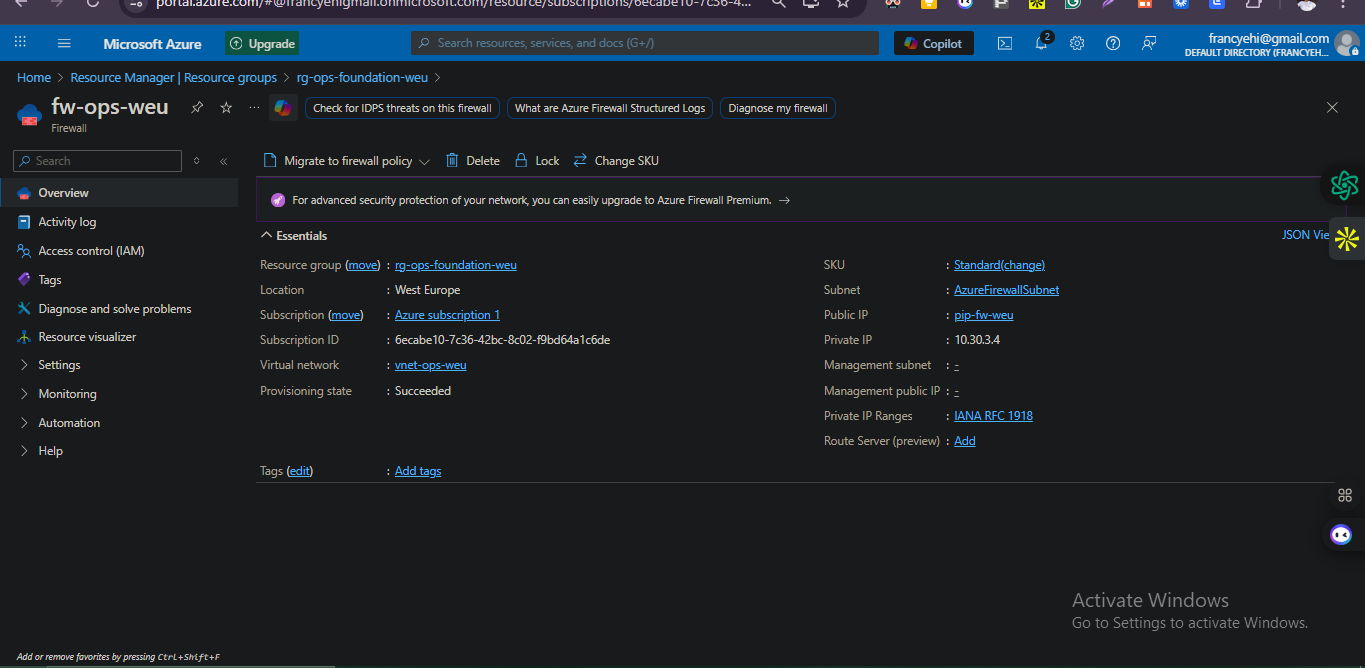
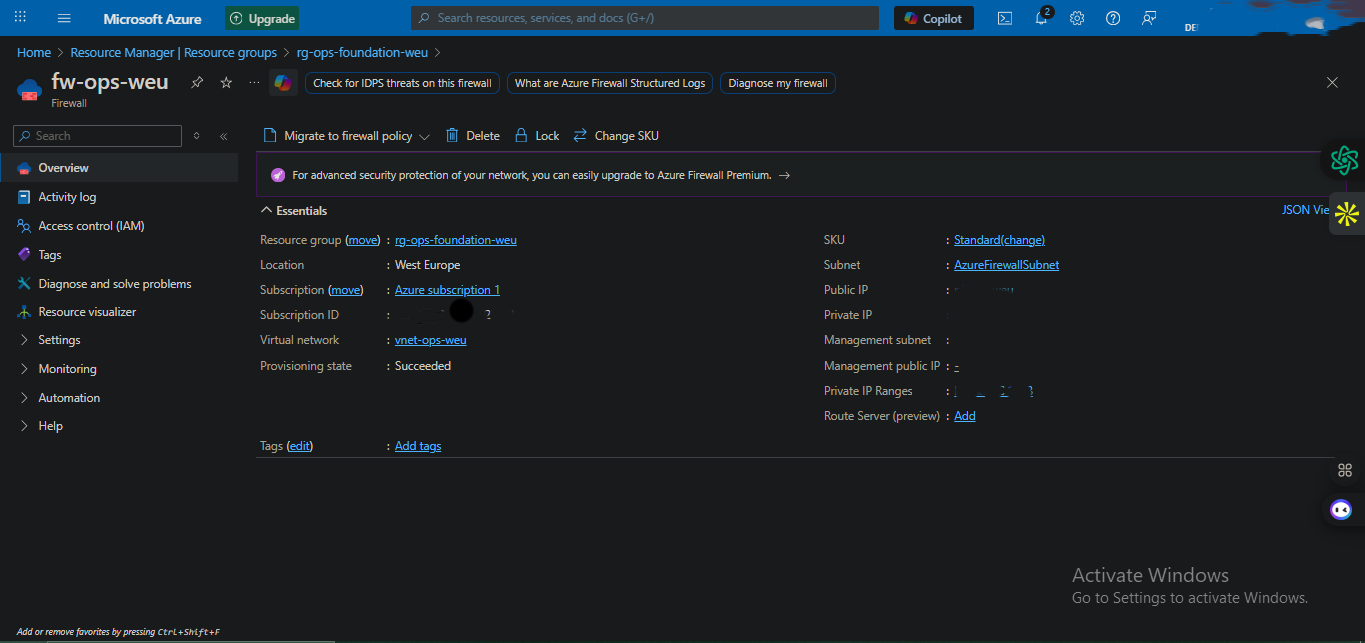
Complete Project 7 CI workflow, add Project 8 IAM comparison, and update documentation screenshots

diff --git a/README.md b/README.md
@@ -4,7 +4,7 @@ This repository contains a series of foundational Cloud and DevOps projects desi
 
 Each project is documented with clear explanations, scripts and diagrams to demonstrate learning progression and real world readiness.
 
----
+
 ## Projects
 
 ### Project 1: Cloud Foundations
@@ -16,7 +16,7 @@ Each project is documented with clear explanations, scripts and diagrams to demo
 
 📁 Folder: `project-1-cloud-foundations/`
 
----
+
 
 ### Project 2: Resource Group and Deployment Simulations
 **Focus:**
@@ -27,7 +27,7 @@ Each project is documented with clear explanations, scripts and diagrams to demo
 
 📁 Folder: `project-2-resource-group-deployment/`
 
----
+
 
 ### Project 3: Azure Networking & Storage
 **Focus:**
@@ -39,7 +39,6 @@ Each project is documented with clear explanations, scripts and diagrams to demo
 
 📁 Folder: `project-3-azure-networking-storage/`
 
----
 
 ### Project 4: Cloud Security & GitHub Basics
 **Focus:**
@@ -50,6 +49,51 @@ Each project is documented with clear explanations, scripts and diagrams to demo
 - GitHub documentation and version control practices
 
 📁 Folder: `project-4-cloud-security-github/`
+
+
+
+### Project 5: Linux & Git Fundamentals
+**Focus:**
+- Linux file system navigation
+- Permissions and ownership
+- Basic shell commands
+- Git fundamentals (init, add, commit, branch)
+
+📁 Folder: `project-5-linux-git-fundamentals/`
+
+
+
+### Project 6: Azure Linux VM Deployment
+**Focus:**
+- Azure CLI usage
+- Linux VM deployment
+- Resource Groups
+- Networking basics
+- Secure access (SSH)
+
+📁 Folder: `project-6-azure-linux-vm-deployment/`
+
+
+### Project 7: GitHub Collaboration & CI Workflow
+**Focus:**
+- Feature branch workflow
+- Pull requests
+- GitHub Actions CI
+- Repository collaboration practices
+
+📁 Folder: `project-7-github-collaboration-actions/`
+
+
+
+### Project 8: IAM Comparison (AWS vs Azure)
+**Focus:**
+- Identity & Access Management concepts
+- AWS IAM vs Azure Entra ID
+- Roles, policies, groups, and scopes
+- Real-world access control scenarios
+
+📁 Folder: `project-8-iam-comparison/`
+
 
 ## Notes
 

diff --git a/project-6-azure-linux-vm-deployment/README.md b/project-6-azure-linux-vm-deployment/README.md
@@ -30,12 +30,12 @@ project-6-azure-linux-vm-deployment/
 	1.	Authenticated to Azure using Azure CLI
 	2.	Selected the correct Azure subscription
 	3.	Executed deployment script:  ./deployment/deploy_vm.sh
-4.  Verified creation of:
-	•	Resource group
-	•	Virtual network & subnet
-	•	Network security group (SSH enabled)
-	•	Public IP
-	•	Linux VM
+	4.	Verified creation of:
+		•	Resource group
+		•	Virtual network & subnet
+		•	Network security group (SSH enabled)
+		•	Public IP
+		•	Linux VM
 	5.	Tested SSH access to the VM
 	6.	Executed cleanup script to delete all resources
 

diff --git a/project-8-iam-comparison/README.md b/project-8-iam-comparison/README.md
@@ -1,0 +1,12 @@
+# Project 8: IAM Comparison (AWS vs Azure)
+
+## Goal
+Compare how Identity & Access Management works in AWS vs Azure, using practical examples.
+
+## What I did
+- Created a side by side IAM comparison guide
+- Documented key concepts and mapping (AWS,Azure)
+- Captured screenshots for folder structure and final README
+
+## Outcome
+Clear reference for how permissions, roles, groups, and policies map between AWS and Azure.
